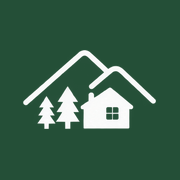
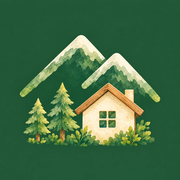
設備サポート v7: アプリアイコンを新しいものに差し替え

Changed region(s): [[0.1111, 0.1944, 0.8889, 0.8333]]

diff --git a/sango-support/app.js b/sango-support/app.js
@@ -2,10 +2,11 @@
 /* 設備サポート：建物から入って業者の連絡先を調べ、トラブルと対応を写真付きで記録するPWA。
    社内データ（建物・業者・電話）はアプリに持たず、「マスターパック」JSONを取り込んで端末内（IndexedDB）に保存する。 */
 
-const APP_VERSION = 6;
+const APP_VERSION = 7;
 const ART_V = 1; // 絵を差し替えたら上げる
 const BOX_UPLOAD_EMAIL = ""; // 管理者の受け取り用Boxアドレス。空なら設定で入力（アップロード専用なので公開しても読まれない）
 const ANNOUNCEMENTS = [
+  { date: "2026-10-04", type: "feature", text: "ホーム画面のアプリアイコンを新しくしました（追加し直すと反映されます）。" },
   { date: "2026-10-04", type: "fix", text: "電話ボタンをカードの下に移し、設備名が読みやすくなりました。" },
   { date: "2026-10-04", type: "fix", text: "設定ボタンを歯車の形にしました。" },
   { date: "2026-10-04", type: "feature", text: "ロゴ、ホームの風景、記録が空の時の絵を入れました。" },

diff --git a/sango-support/index.html b/sango-support/index.html
@@ -9,8 +9,8 @@
 <meta name="apple-mobile-web-app-title" content="設備サポート">
 <meta name="theme-color" content="#244f37">
 <title>設備サポート</title>
-<link rel="apple-touch-icon" href="icon-180.png?v=2">
-<link rel="icon" type="image/png" sizes="96x96" href="icon-96.png?v=2">
+<link rel="apple-touch-icon" href="icon-180.png?v=3">
+<link rel="icon" type="image/png" sizes="96x96" href="icon-96.png?v=3">
 <link rel="stylesheet" href="style.css?v=3">
 </head>
 <body>
@@ -36,6 +36,6 @@
 <input type="file" id="masterFile" accept=".json,application/json" hidden>
 <input type="file" id="shootInput" accept="image/*" capture="environment" hidden>
 <input type="file" id="pickInput" accept="image/*" multiple hidden>
-<script src="app.js?v=6"></script>
+<script src="app.js?v=7"></script>
 </body>
 </html>

diff --git a/sango-support/service-worker.js b/sango-support/service-worker.js
@@ -1,8 +1,8 @@
 // キャッシュ対象を変更したら CACHE_VERSION を上げること
-const CACHE_VERSION = 6;
+const CACHE_VERSION = 7;
 const CACHE_NAME = `sango-support-v${CACHE_VERSION}`;
 // 絵(art/)は無くても動くので、ここには入れず初回表示時に取得してキャッシュする
-const APP_SHELL = ['./', 'index.html', 'app.js?v=6', 'style.css?v=3', 'icon-96.png?v=2', 'icon-180.png?v=2', 'icon-512.png'];
+const APP_SHELL = ['./', 'index.html', 'app.js?v=7', 'style.css?v=3', 'icon-96.png?v=3', 'icon-180.png?v=3', 'icon-512.png'];
 // 業者データなどの社内データはアプリに含めず、JSONで取り込んでIndexedDBに保存する
 
 self.addEventListener('install', (event) => {
